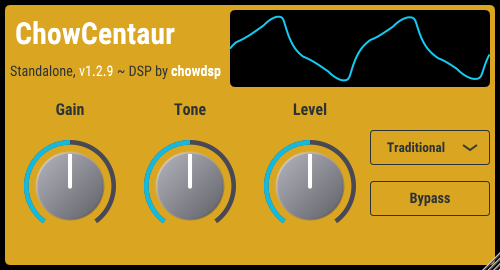
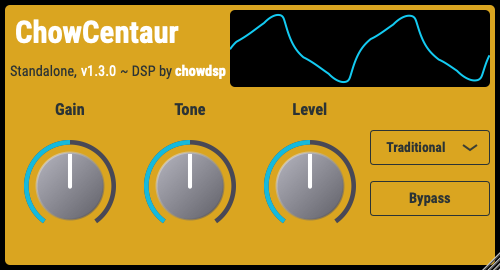
Bump version number

diff --git a/ChowCentaur/headless/main.cpp b/ChowCentaur/headless/main.cpp
@@ -11,6 +11,7 @@ void usage()
 int main (int argc, char** argv)
 {
     std::cout << "Running ChowCentaur version " << ProjectInfo::versionString << " in headless mode..." << std::endl;
+    ScopedJuceInitialiser_GUI scopedJuce;
 
     if (argc < 1)
     {
